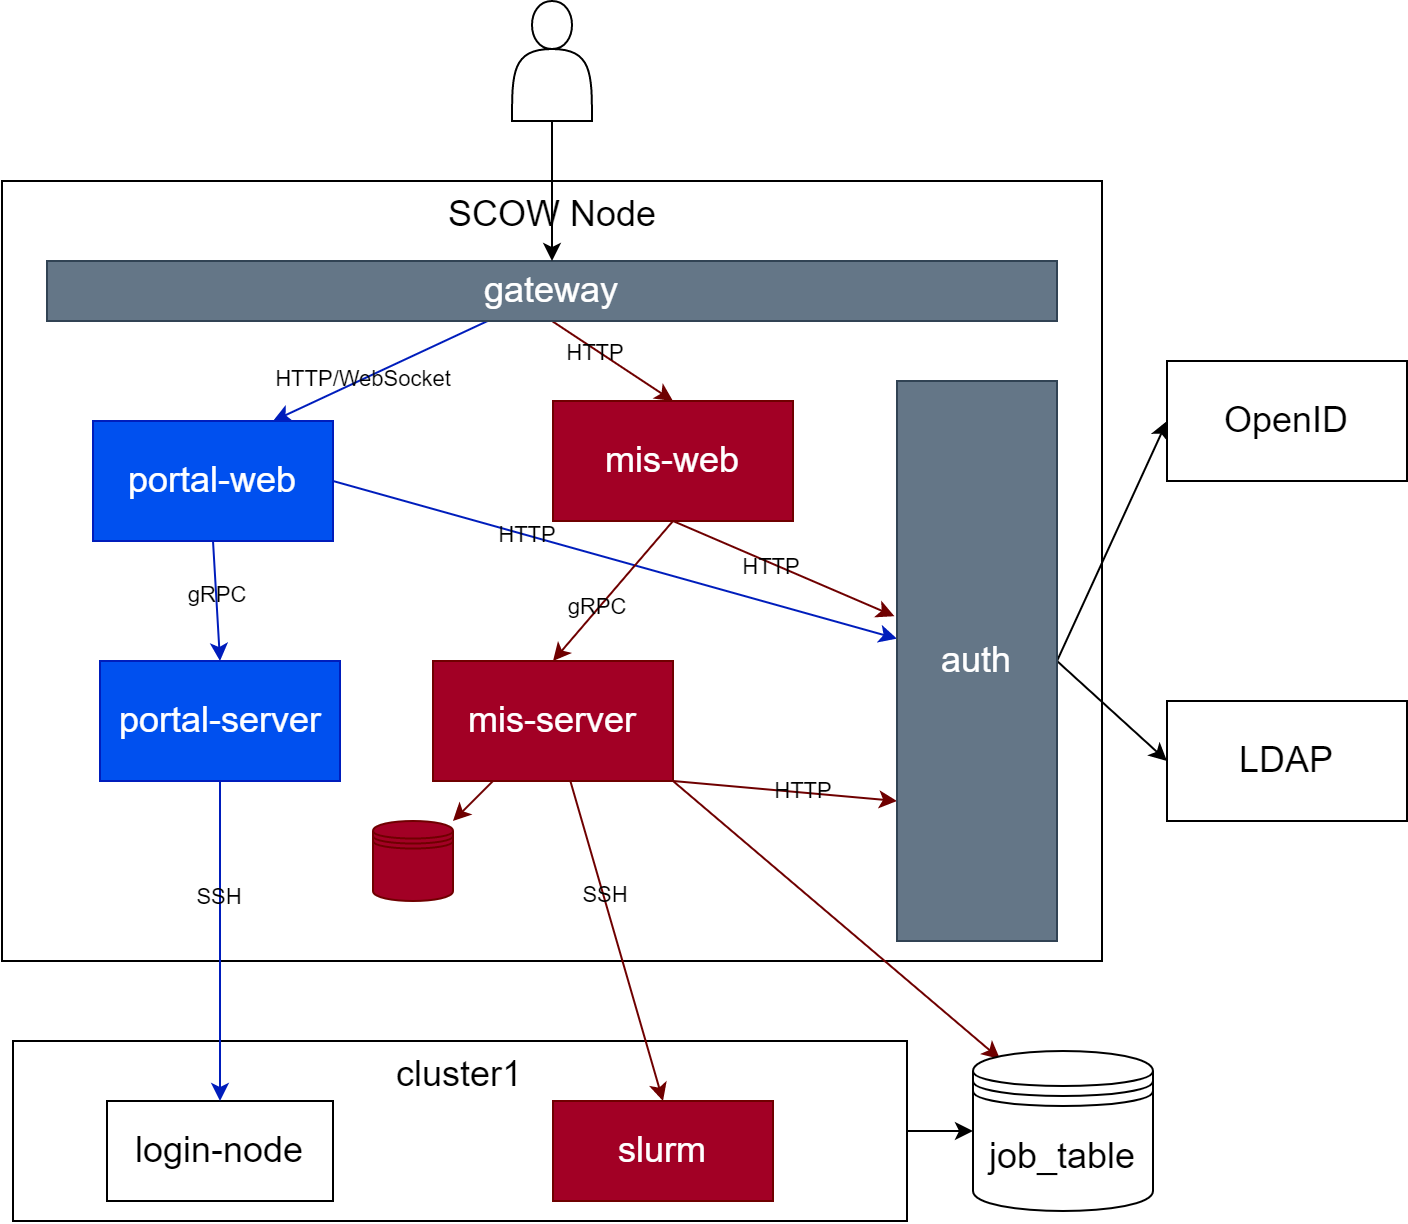
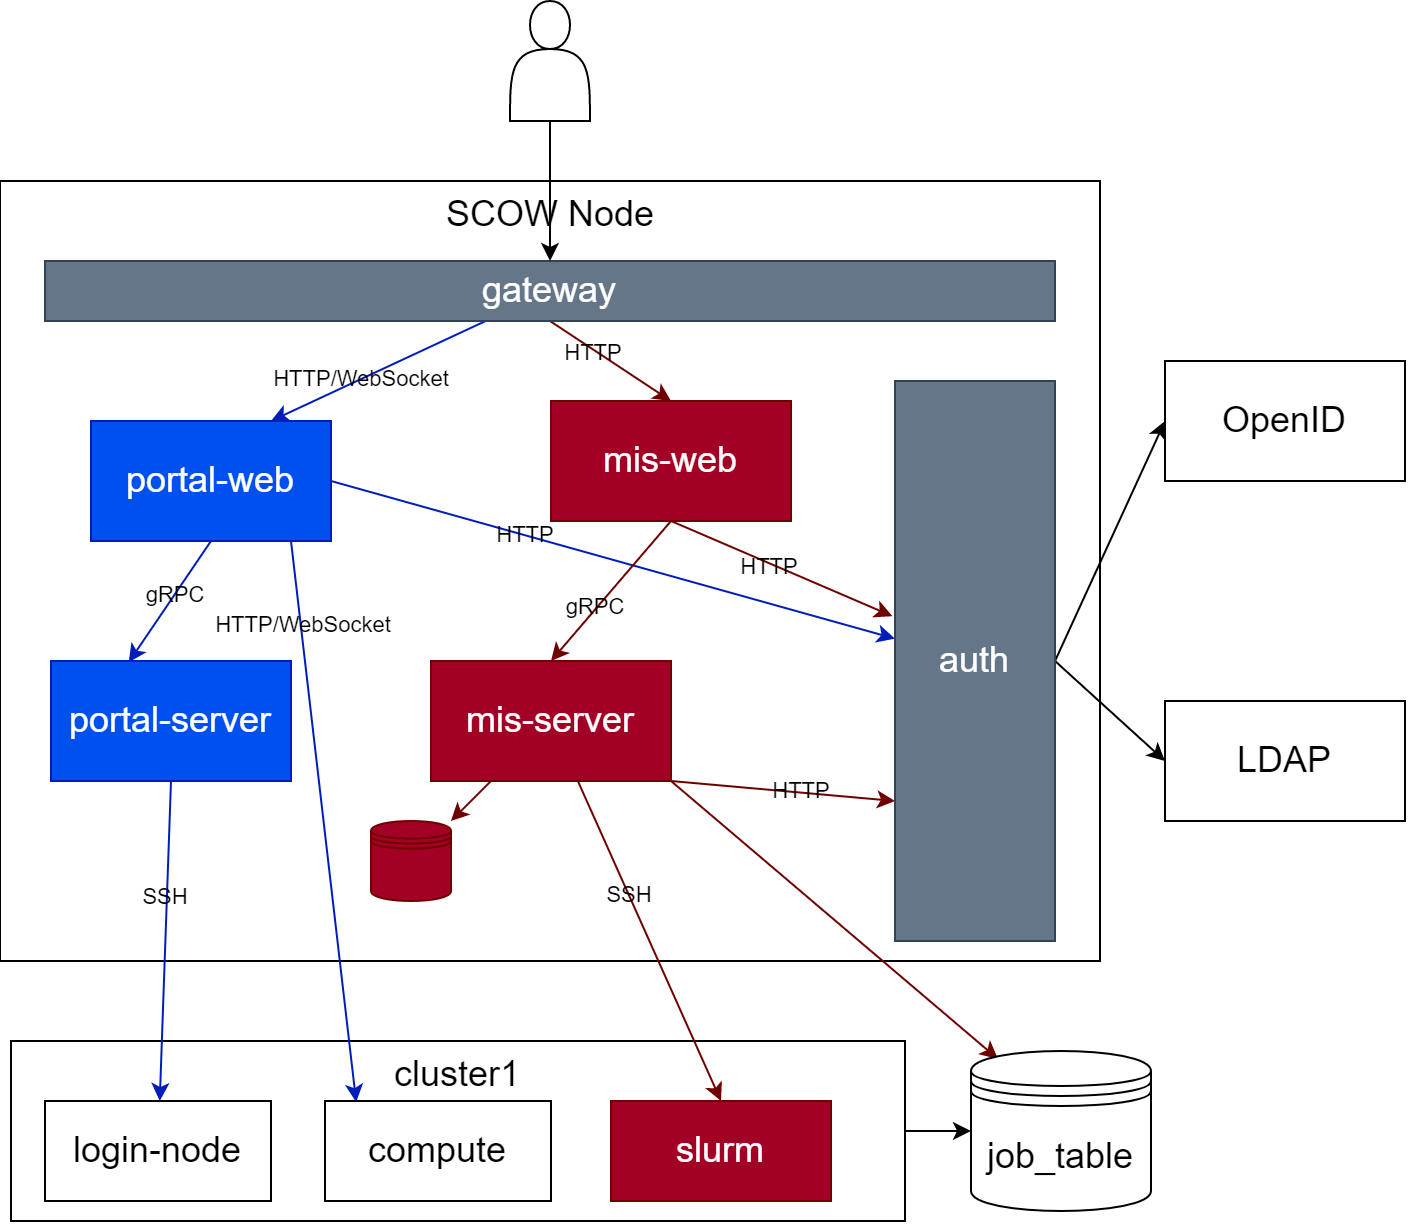
feat: 在portal-web中实现HTTP和WS代理 (#302)
* feat: add authenticated proxy

* feat(build): add proxy to build file

* chore(proxy): remove tsgrpc

* fix(gateway): add back proxy_read_timeout

* fix(proxy): fix build

* fix(proxy): fix build

* feat(gateway): write a node-gateway

* fix: update lock file

* fix(node-gateway): gateway defaults to listen 80

* fix(gateway): fix

* fix(gateway): restructure code

* fix: try handle url

* fix(gateway): fix

* fix(node-gateway): fix mis and portal redirects

* fix(node-gateway): normalize path

* fix(node-gateway): fix path module name conflict

* fix(node-gateway): fix trailing slash

* fix(node-gateway): update logging

* feat(portal-web): try implementing proxy in portal-web

* fix(portal-web): add trailingSlash

* fix(portal-web): set skipTrailingSlashRedirect to false

* feat: rollback to use nginx gateway

* docs(portal-web): add readme

* chore: remove node-gateway

* fix(portal-web): fix parseProxyTarget on base path

* fix(portal-web): add init routes to initialize shell and websocket proxy server

* Revert "fix(portal-web): add init routes to initialize shell and websocket proxy server"

This reverts commit 17c710a1d193461f61b79613937c75f188953573.

* feat(portal-web): initialize ws proxy server

* fix(portal-web): add logging at initializing proxy

* fix(portal-web):  remove unnecessary logging

* fix(portal-web): fix init fetch url

* fix(portal-web): fix proxy target parse

* fix(portal-web): fix proxy call

* fix(portal-web): fix websocket root proxy
[…]

diff --git a/apps/portal-web/src/pages/api/proxy/[type]/[node]/[port]/[[...path]].ts b/apps/portal-web/src/pages/api/proxy/[type]/[node]/[port]/[[...path]].ts
@@ -1,0 +1,131 @@
+import http from "http";
+import httpProxy from "http-proxy";
+import { NextApiRequest } from "next";
+import { normalize } from "path";
+import { checkCookie } from "src/auth/server";
+import { AugmentedNextApiResponse } from "src/types/next";
+import { runtimeConfig } from "src/utils/config";
+
+/**
+ * Normalize url's pathname part
+ * @param url url
+ * @returns normalized url
+ */
+function normalizeUrl(url: string) {
+  // strip querystring
+  const qsIndex = url.indexOf("?");
+
+  const pathname = url.slice(0, qsIndex === -1 ? undefined : qsIndex);
+  const qs = qsIndex === -1 ? "" : url.slice(qsIndex);
+
+  return normalize(pathname) + qs;
+}
+
+
+function parseProxyTarget(url: string, includeBasePath: boolean): string | Error {
+
+  const normalizedUrl = normalizeUrl(url);
+
+  // skip base path
+  const relativePath = includeBasePath
+    ? runtimeConfig.BASE_PATH === "/"
+      ? normalizedUrl
+      : normalizedUrl.slice(runtimeConfig.BASE_PATH.length)
+    : normalizedUrl;
+
+  const [_empty, _api, _proxy, type, node, port, ...path] = relativePath.split("/");
+
+  if (type === "relative") {
+    return `http://${node}:${port}/${path.join("/")}`;
+  } else if (type === "absolute") {
+    return `http://${node}:${port}${url}`;
+  } else {
+    return new Error("type is not absolute or relative");
+  }
+}
+
+const proxy = httpProxy.createServer();
+
+export const config = {
+  api: {
+    bodyParser: false,
+  },
+};
+
+export default async (req: NextApiRequest, res: AugmentedNextApiResponse) => {
+
+  /**
+   * Node的原生http服务器（http.Server）在收到WebSocket连接的时候将会触发一个`upgrade`事件，而且并不走正常的HTTP请求响应流程
+   * 所以整个系统第一次启动后，在以HTTP形式访问此代理地址之前，到本地址的WebSocket将会失败
+   * 因为此时并没有注册upgrade事件的监听器，无法处理WebSocket连接。
+   *
+   * 所以系统启动后，需要手动触发一次到本地址的HTTP请求，以便注册upgrade事件的监听器
+   */
+  if (!res.socket.server.upgrade) {
+    // @ts-ignore
+    const server: http.Server = res.socket.server;
+
+    server.on("upgrade", async (req, socket, head) => {
+
+      const writeError = (statusLine: string, msg: string) => {
+        socket.end(`HTTP/1.1 ${statusLine}\r\n${msg}`);
+      };
+
+      const user = await checkCookie(() => true, req).catch(() => {
+        writeError("500 Internal Server Error", "Error when authenticating request");
+        return 500;
+      });
+
+      if (typeof user === "number") {
+        writeError("401 Unauthorized", "token is not valid");
+        return;
+      }
+
+      const target = parseProxyTarget(req.url!, true);
+
+      if (target instanceof Error) {
+        writeError("400 Bad Request", target.message);
+        return;
+      }
+
+      proxy.ws(req, socket, head, { target, ignorePath: true, xfwd: true }, (err) => {
+        console.error(err, "Error when proxing WS requests");
+        writeError("500 Internal Server Error", "Error when proxing WS requests");
+      });
+
+    });
+
+    res.socket.server.upgrade = true;
+    // reload the page at first call
+    return res.redirect(307, req.url!);
+  }
+
+  const user = await checkCookie(() => true, req).catch(() => {
+    res.status(500).send("Error when authenticating request");
+    return 500;
+  });
+
+  if (typeof user === "number") {
+    res.status(401).send("Unauthorized");
+    return;
+  }
+
+  const target = parseProxyTarget(req.url!, false);
+
+  if (target instanceof Error) {
+    res.status(400).send(target.message);
+    return;
+  }
+
+  proxy.web(req, res, {
+    target,
+    ignorePath: true, xfwd: true,
+  }, (err) => {
+    if (err) {
+      console.error(err, "Error when proxing requests");
+      res.status(500).send(err);
+    }
+  });
+
+
+};

diff --git a/apps/portal-web/config.js b/apps/portal-web/config.js
@@ -1,6 +1,6 @@
 // @ts-check
 
-const { envConfig, str, bool, parseKeyValue, num } = require("@scow/lib-config");
+const { envConfig, str, bool, parseKeyValue, num, port } = require("@scow/lib-config");
 const { join } = require("path");
 const { homedir } = require("os");
 const { PHASE_DEVELOPMENT_SERVER, PHASE_PRODUCTION_BUILD, PHASE_PRODUCTION_SERVER, PHASE_TEST } = require("next/constants");
@@ -37,9 +37,9 @@ const specs = {
   SSH_PRIVATE_KEY_PATH: str({ desc: "SSH私钥路径", default: join(homedir(), ".ssh", "id_rsa") }),
   SSH_PUBLIC_KEY_PATH: str({ desc: "SSH公钥路径", default: join(homedir(), ".ssh", "id_rsa.pub") }),
 
-  PROXY_BASE_PATH: str({ desc: "网关的代理路径。相对于整个系统的base path。", default: "/proxy" }),
-  RPROXY_BASE_PATH: str({ desc: "网关的代理路径。相对于整个系统的base path。", default: "/rproxy" }),
-  WSPROXY_BASE_PATH: str({ desc: "网关的代理路径。相对于整个系统的base path。", default: "/wsproxy" }),
+  PROXY_BASE_PATH: str({ desc: "网关的代理路径。相对于整个系统的base path。", default: "/api/proxy/absolute" }),
+  RPROXY_BASE_PATH: str({ desc: "网关的代理路径。相对于整个系统的base path。", default: "/api/proxy/relative" }),
+  WSPROXY_BASE_PATH: str({ desc: "网关的代理路径。相对于整个系统的base path。", default: "/api/proxy/absolute" }),
 
   SERVER_URL: str({ desc: "门户后端的路径", default: "portal-server:5000" }),
 
@@ -145,6 +145,22 @@ const buildRuntimeConfig = async (phase) => {
   if (!building) {
     console.log("Server Runtime Config", serverRuntimeConfig);
     console.log("Public Runtime Config", publicRuntimeConfig);
+  }
+
+  if (production) {
+
+    // HACK
+    // call /api/proxy/<node>/<port>/ after 3 seconds to init the proxy ws server
+    setTimeout(() => {
+      const url = "http://localhost:3000" + join(publicRuntimeConfig.PROXY_BASE_PATH, "127.0.0.1", "3001");
+      console.log("Calling proxy url to initialize ws proxy server", url);
+      fetch(url).then(() => {
+        console.log("Call completed.");
+      }).catch((e) => {
+        console.error("Error when calling proxy url to initialize ws proxy server", e);
+      });
+    }, 3000);
+
   }
 
   return {

diff --git a/apps/portal-web/src/pages/api/shell/socketio.ts b/apps/portal-web/src/pages/api/shell/socketio.ts
@@ -4,7 +4,7 @@ import { join } from "path";
 import { Server as ServerIO } from "socket.io";
 import { checkCookie } from "src/auth/server";
 import { ShellResponse, ShellServiceClient } from "src/generated/portal/shell";
-import { NextApiResponseServerIO } from "src/types/socket";
+import { AugmentedNextApiResponse } from "src/types/next";
 import { getClient } from "src/utils/client";
 import { runtimeConfig } from "src/utils/config";
 import { queryToIntOrDefault, queryToString } from "src/utils/querystring";
@@ -15,7 +15,7 @@ export const config = {
   },
 };
 
-export default async (req: NextApiRequest, res: NextApiResponseServerIO) => {
+export default async (req: NextApiRequest, res: AugmentedNextApiResponse) => {
 
   if (!res.socket.server.io) {
     // @ts-ignore

diff --git a/apps/portal-web/src/types/next.ts b/apps/portal-web/src/types/next.ts
@@ -3,10 +3,11 @@ import { NextApiResponse } from "next";
 import { Server as SocketIOServer } from "socket.io";
 
 
-export type NextApiResponseServerIO = NextApiResponse & {
+export type AugmentedNextApiResponse = NextApiResponse & {
   socket: Socket & {
     server: Server & {
       io: SocketIOServer;
+      upgrade: boolean;
     };
   };
 };

diff --git a/apps/portal-web/next.config.js b/apps/portal-web/next.config.js
@@ -15,7 +15,10 @@ module.exports = async (phase) => {
     basePath: process.env.NEXT_PUBLIC_BASE_PATH,
     compiler: {
       styledComponents: true,
-    }
+    },
+    experimental: {
+      skipTrailingSlashRedirect: true,
+    },
   };
 
   return withPlugins([

diff --git a/docs/docs/portal/apps/configure-jupyter-app.md b/docs/docs/portal/apps/configure-jupyter-app.md
@@ -48,7 +48,7 @@ web:
     c.NotebookApp.port_retries = 0
     c.NotebookApp.password = u'sha1:${SALT}:${PASSWORD_SHA1}'
     c.NotebookApp.open_browser = False
-    c.NotebookApp.base_url = "/proxy/${SLURM_COMPUTE_NODE_IP}/${PORT}/"
+    c.NotebookApp.base_url = "/api/proxy/absolute/${SLURM_COMPUTE_NODE_IP}/${PORT}/"
     c.NotebookApp.allow_origin = '*'
     c.NotebookApp.disable_check_xsrf = True
     EOL
